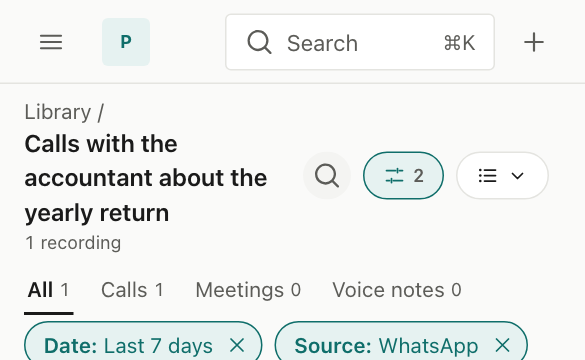
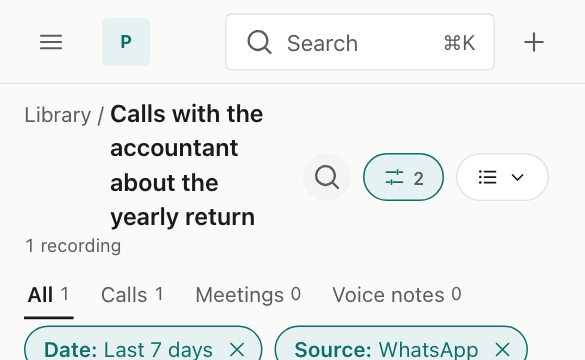
Decision 18 review: the count under the title takes only the wider of the two
With the count under the title, the title's group measured as wide as the title and the count side by side (a
wrapping flex box's own width), so a phone's row took the title's last step: at 390 px "Library / All recordings"
was set to wrap, though it fits. The group is a small grid there (the title, then the count across), as wide as the
wider of the two: at 390 px the title is whole again, beside the ⌕ search and the toolbar's icons; only a long view
name takes more lines. Pictures retaken; header-fit passes at 1440, 1024, 768 and 390 px in English and Urdu.

diff --git a/web/resources/css/v2/console.css b/web/resources/css/v2/console.css
@@ -3573,14 +3573,17 @@ button.v2-row-tile:focus-visible,
     white-space: nowrap;
 }
 
-/* Then the count goes under the title (both still the title's group). */
+/* Then the count goes under the title (both still the title's group, as wide as the wider of them). */
 :root[data-lib-count='under'] .v2-lib-shell.is-right .v2-lib-crumbs {
-    flex-wrap: wrap;
+    display: grid;
+    grid-template-columns: auto minmax(0, 1fr);
+    align-items: baseline;
+    column-gap: var(--el-space-4);
     row-gap: 0;
 }
 
 :root[data-lib-count='under'] .v2-lib-shell.is-right .v2-lib-crumbs > .v2-lib-total {
-    flex-basis: 100%;
+    grid-column: 1 / -1;
     margin: 0;
 }
 
